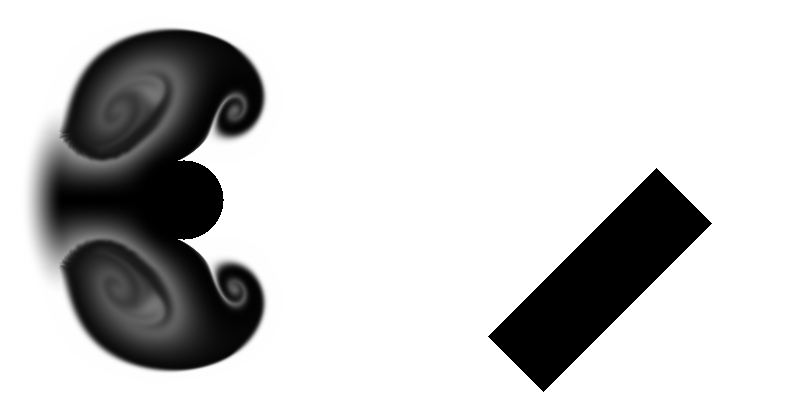
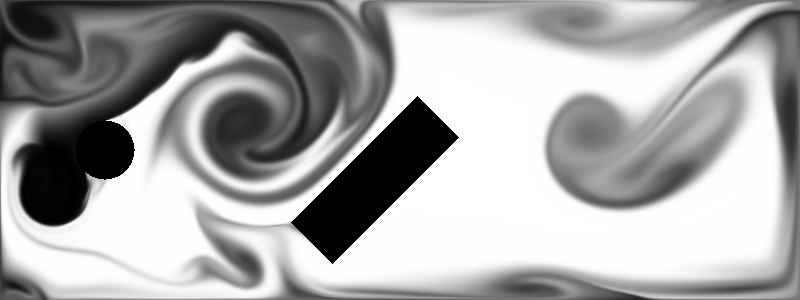
Minor changes to scene.

diff --git a/src/bin/main.rs b/src/bin/main.rs
@@ -6,15 +6,15 @@ extern crate image;
 
 fn main() {
     let width = 800;
-    let height = 400;
+    let height = 300;
 
     let mut buffer = vec![0u8; width * height * 3];
 
     let mut bodies = Vec::new();
-    bodies.push(SolidBody::new_box(1.5, 0.7, 0.6, 0.2, std::f64::consts::FRAC_PI_4, 0.0, 0.0, 0.0));
-    bodies.push(SolidBody::new_sphere(0.46, 0.5, 0.2, 0.0, 0.0, 0.0, 0.0));
+    bodies.push(SolidBody::new_box(1.25, 0.6, 0.6, 0.2, std::f64::consts::FRAC_PI_4, 0.0, 0.0, 0.0));
+    bodies.push(SolidBody::new_sphere(0.35, 0.5, 0.2, 0.0, 0.0, 0.0, 0.0));
 
-    let mut solver = FluidSolver::new(height, width, 0.005, 1.0 / 400.0, 0.1, bodies)
+    let mut solver = FluidSolver::new(height, width, 0.005, 1.0 / 300.0, 0.1, bodies)
         .integration(integration::Integration::BogackiShampine)
         .linear_solver(linear_solvers::LinearSolver::ConjugateGradient)
         .advection(advection::Advection::SemiLagrangian);

diff --git a/src/util/linear_algebra.rs b/src/util/linear_algebra.rs
@@ -45,7 +45,8 @@ pub fn scaled_add1(dst: &mut Vec<f64>, b: &Vec<f64>, s: f64) {
 
 pub fn scaled_add2(dst: &mut Vec<f64>, a: &Vec<f64>,  s: f64) {
     for element in 0..dst.len() {
-        dst[element] = a[element] + dst[element] * s;
+        dst[element] *= s;
+        dst[element] += a[element];
     }
 }
 

diff --git a/src/linear_solvers/conjugate_gradient.rs b/src/linear_solvers/conjugate_gradient.rs
@@ -126,7 +126,7 @@ pub fn conjugate_gradient(pressure: &mut Vec<f64>,
 
     let mut max_error = infinity_norm(residual);
 
-    if max_error < 1e-5 {
+    if max_error < 1e-4 {
         return;
     }
 
